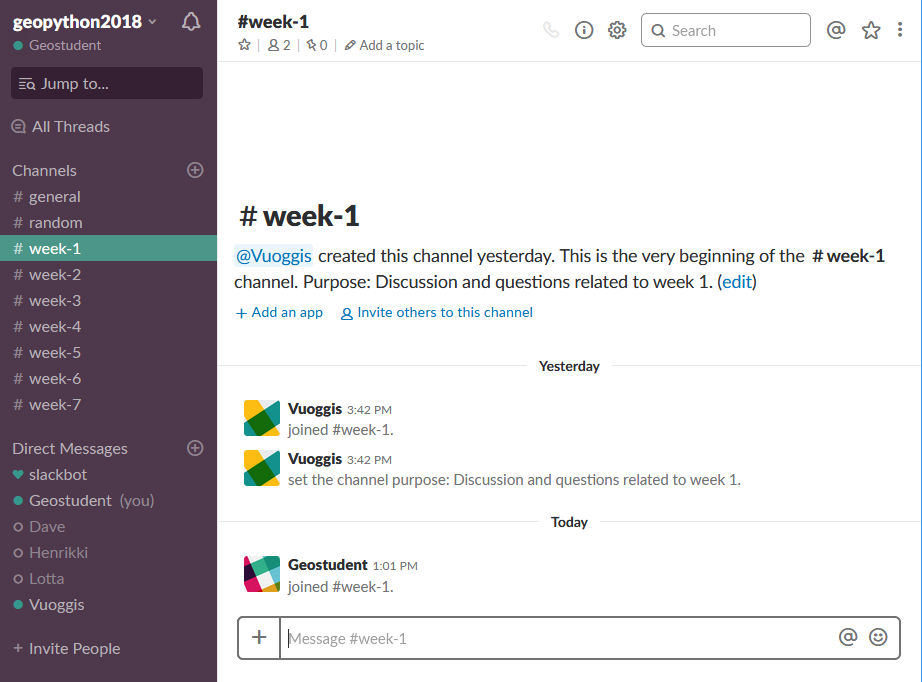
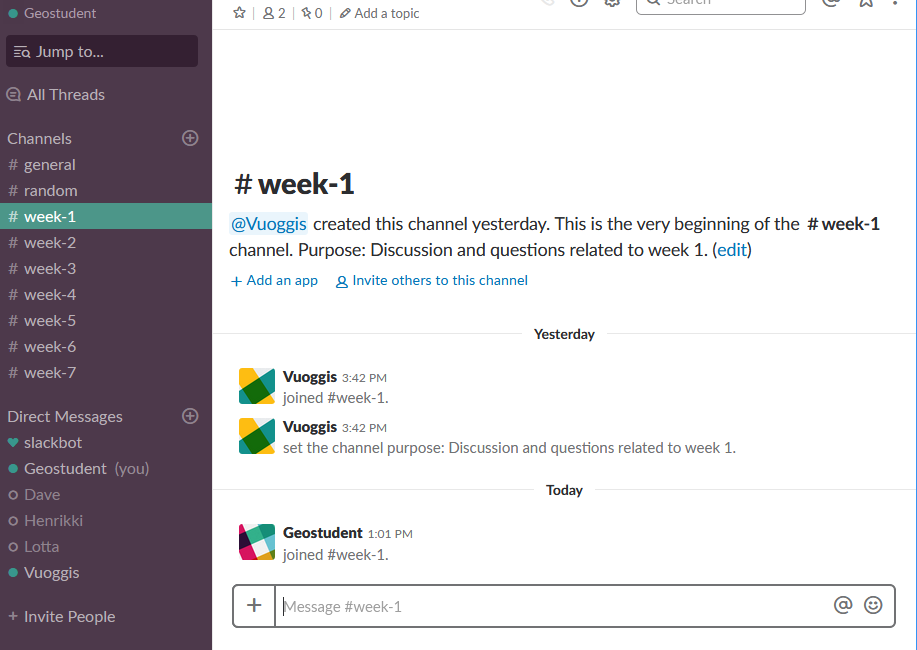
removing year-spesific details

Changed region(s): [[0.0, 0.0, 0.9771, 1.0], [0.6107, 0.0, 0.9771, 0.0615], [0.5802, 0.4923, 0.6718, 0.5538]]

diff --git a/source/lessons/L1/slack-usage.rst b/source/lessons/L1/slack-usage.rst
@@ -12,9 +12,7 @@ Accessing the workspace in Slack
 We will send an invitation link for all enrolled students to the Slack Team called ``geopython2020``.
 Before you can start using Slack, you should create a new account for Slack (if you don't have one already) and accept the invitation you have received.
 
-**After accepting the invitation, you can access the course Slack team from following link:**
-
-  * `<http://geopython2020.slack.com>`__
+**After accepting the invitation, you can access the course Slack team via this link:** `<http://geopython2020.slack.com>`__
 
 Overview of Slack
 -----------------
@@ -33,7 +31,7 @@ Basic usage of Slack
 When entering to our Slack Team you should see something like following where you have:
 
  - all channels listed on the left panel
- - on the right you have the selected channel (1-lesson) where you can start discussing about the contents of the lesson (lesson 1 in this case)
+ - on the right you have the selected channel where you can start discussing about the topics for that week:
 
 .. figure:: img/slack-basic-view.png
    :alt: Basic view of Slack
